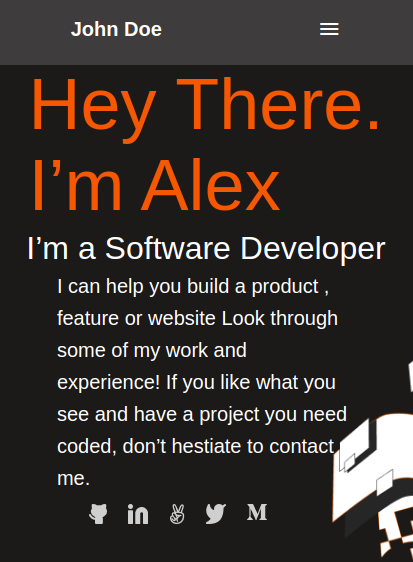
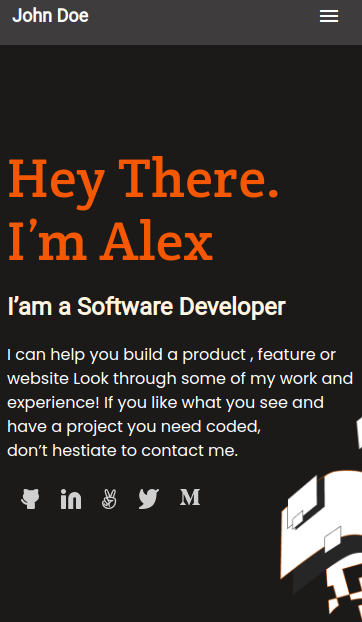
Correctionsstyles.css and index.html finish

diff --git a/index.html b/index.html
@@ -6,12 +6,15 @@
     <meta name="viewport" content="width=device-width, initial-scale=1.0">
     <link rel="stylesheet" href="css/styles.css">
     <link href="https://fonts.googleapis.com/icon?family=Material+Icons" rel="stylesheet">
+    <link rel="preconnect" href="https://fonts.googleapis.com">
+    <link rel="preconnect" href="https://fonts.gstatic.com" crossorigin>
+    <link href="https://fonts.googleapis.com/css2?family=Crete+Round&family=Poppins&family=Roboto&display=swap" rel="stylesheet">
     <title>Portfolio</title>
 </head>
 <body>
     <header class="d-flex">
         <a class="d-flex heading-font" id="header-name">
-            <p>John Doe</p>
+            <p class="roboto-font">John Doe</p>
         </a>
         <nav>
             <ul id="items-container">
@@ -28,7 +31,7 @@
         </nav>
     </header>
 
-    <div class="d-flex flex-center" id="principal-container">
+    <section class="d-flex flex-center" id="principal-container">
         <nav class="d-flex" id="navigation-social">
             <ul class="d-flex" id="social-container">
                 <li class="social-logos">
@@ -58,16 +61,16 @@
                 </li>
             </ul>
         </nav>
-        <section class="d-flex flex-center" id="presentation-info">
-            <h1 class="margin-tb-zero">Hey There. <br> I’m Alex</h1>
-            <h2 class="heading-font margin-tb-zero">I’m a Software Developer</h2>
-            <p class="heading-font margin-tb-zero">
+        <section class="d-flex" id="presentation-info">
+            <h1 class="heading-font margin-tb-zero">Hey There. <br> I’m Alex</h1>
+            <h2 class="roboto-font">I’am a Software Developer</h2>
+            <p class="margin-tb-zero">
                 I can help you build a product , feature or website Look 
                 through some of my work and experience! If you like what 
-                you see and have a project you need coded, 
+                you see and have a project you need coded,<br> 
                 don’t hestiate to contact me.
             </p>
         </section>
-    </div>   
+    </section>   
 </body>
 </html>

diff --git a/css/styles.css b/css/styles.css
@@ -10,17 +10,18 @@ body {
 }
 
 header {
-  justify-content: space-around;
+  justify-content: space-between;
   align-items: center;
-  height: 72px;
   background-color: #3e3c3c;
 }
 
 #header-name {
   justify-content: center;
   font-weight: bold;
-  font-size: 20px;
+  font-size: 18px;
+  line-height: 133%;
   color: white;
+  margin-left: 20px;
 }
 
 #items-container {
@@ -37,18 +38,17 @@ header {
   color: white;
 }
 
-i {
-  vertical-align: bottom;
-  color: white;
-}
-
-
 #header-menu {
   justify-content: center;
   background-color: transparent;
   border: none;
+  margin-right: 20px;
 }
 
+i {
+  vertical-align: bottom;
+  color: white;
+}
 
 #principal-container {
   flex-direction: column;
@@ -56,7 +56,7 @@ i {
 }
 
 #navigation-social {
-  width: 60%;
+  width: 90%;
   order: 1;
   justify-content: flex-start;
   align-items: center;
@@ -66,32 +66,38 @@ i {
   height: auto;
   width: 200px;
   justify-content: space-around;
+  list-style-type: none;
+  padding: 0;
 }
 
 #presentation-info {
   flex-direction: column;
   height: min-content;
+  margin-left: 15px;
 }
 
 #presentation-info h1 {
-  font-family: Crete Round, Arial, Helvetica, sans-serif;
-  font-size: 72px;
-  line-height: 81px;
+  font-size: 56px;
+  font-weight: normal;
+  line-height: 114%;
+  letter-spacing: 0.37px;
   color: #f55800;
+  margin-top: 20%;
 }
 
 #presentation-info h2 {
-  font-weight: 500;
-  font-size: 32px;
-  line-height: 44px;
-  color: white;
+  font-weight: bold;
+  font-size: 24px;
+  line-height: 133%;
+  color: #fff5e1;;
 }
 
 #presentation-info p {
-  font-size: 20px;
-  line-height: 32px;
+  font-family: 'Poppins', sans-serif;
+  font-size: 16px;
+  line-height: 150%;
   color: white;
-  width: 70%;
+  width: 100%;
   margin-bottom: 10px;
 }
 
@@ -100,7 +106,11 @@ i {
 }
 
 .heading-font {
-  font-family: Inter, Arial, Helvetica, sans-serif;
+  font-family: 'Crete Round', serif;
+}
+
+.roboto-font {
+  font-family: 'Roboto', sans-serif;
 }
 
 .margin-tb-zero{
